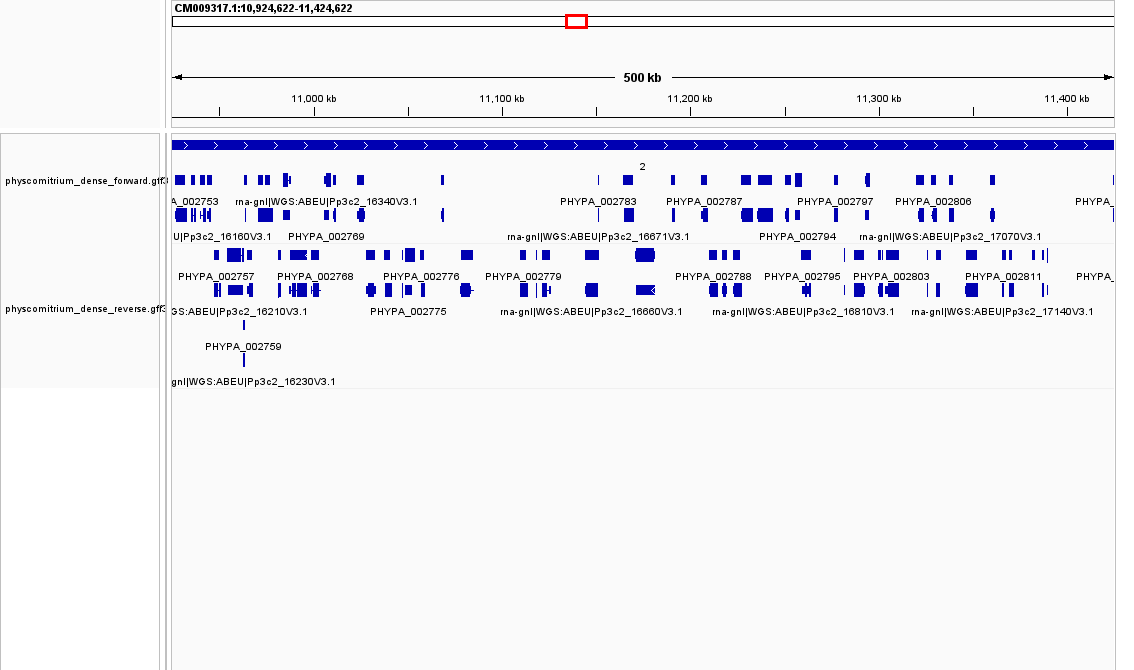
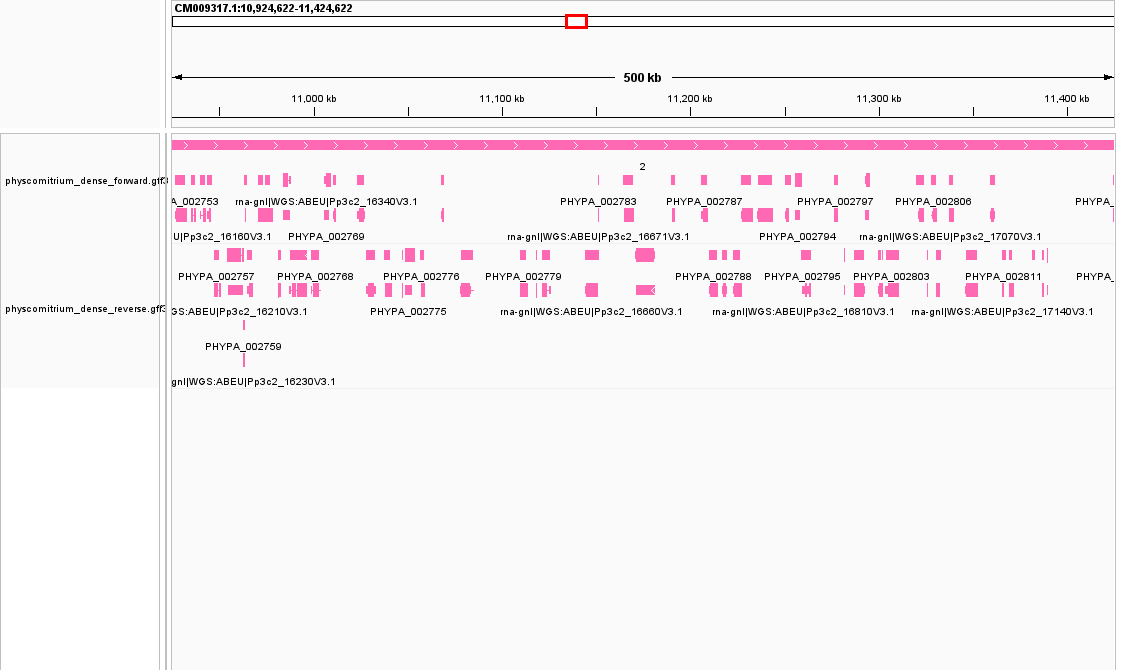
Week 2 assignment

diff --git a/Week-2/README.md b/Week-2/README.md
@@ -300,19 +300,24 @@ This interval contains **126 annotated genes**: 59 on the forward strand and
 because it shows many gene models while keeping their labels and exon patterns
 visible.
 
-![Dense Physcomitrium strand overview](results/igv/physcomitrium_dense_strands_1Mb.png)
+![Dense forward-strand genes](results/igv/physcomitrium_dense_forward_blue_1Mb.png)
 
-**Figure 7B.** The complete one-megabase dense interval with separate forward
-and reverse annotation tracks.
+**Figure 7B. Dense forward-strand gene landscape.** The one-megabase interval
+with forward-strand annotation shown in blue.
+
+![Dense reverse-strand genes](results/igv/physcomitrium_dense_reverse_pink_1Mb.png)
+
+**Figure 7C. Dense reverse-strand gene landscape.** The same one-megabase
+interval with reverse-strand annotation shown in pink.
 
 ![Dense forward-strand zoom](results/igv/physcomitrium_dense_forward_zoom.png)
 
-**Figure 7C.** The first half of the dense interval, showing forward-strand
+**Figure 7D.** The first half of the dense interval, showing forward-strand
 features and nearby transcript models.
 
 ![Dense reverse-strand zoom](results/igv/physcomitrium_dense_reverse_zoom.png)
 
-**Figure 7D.** The second half of the interval, showing reverse-strand
+**Figure 7E.** The second half of the interval, showing reverse-strand
 features and nearby transcript models.
 
 ### Answers from the expanded coordinate
@@ -345,6 +350,19 @@ The moss genome is not uniformly organized. Some regions are gene-dense, like
 this 1 Mb interval, while other parts contain much larger gene-free gaps. A
 genome-wide overview is useful for context, but zoomed intervals are needed to
 interpret gene names, exon structure, and strand direction clearly.
+
+### Assignment question count
+
+The assignment has **four genome-browsing questions**:
+
+1. How tightly packed are the genes?
+2. What sequence is present at a selected coordinate?
+3. What are the six possible reading frames at that coordinate?
+4. What type of feature is shown in the annotation track?
+
+The earlier genome-download section adds four background questions about genome
+size, chromosome/sequence records, annotation counts, and assembly completeness.
+Together, the README answers eight required question areas.
 
 ![Physcomitrium expanded strand view](results/igv/physcomitrium_strand_expanded.png)
 
